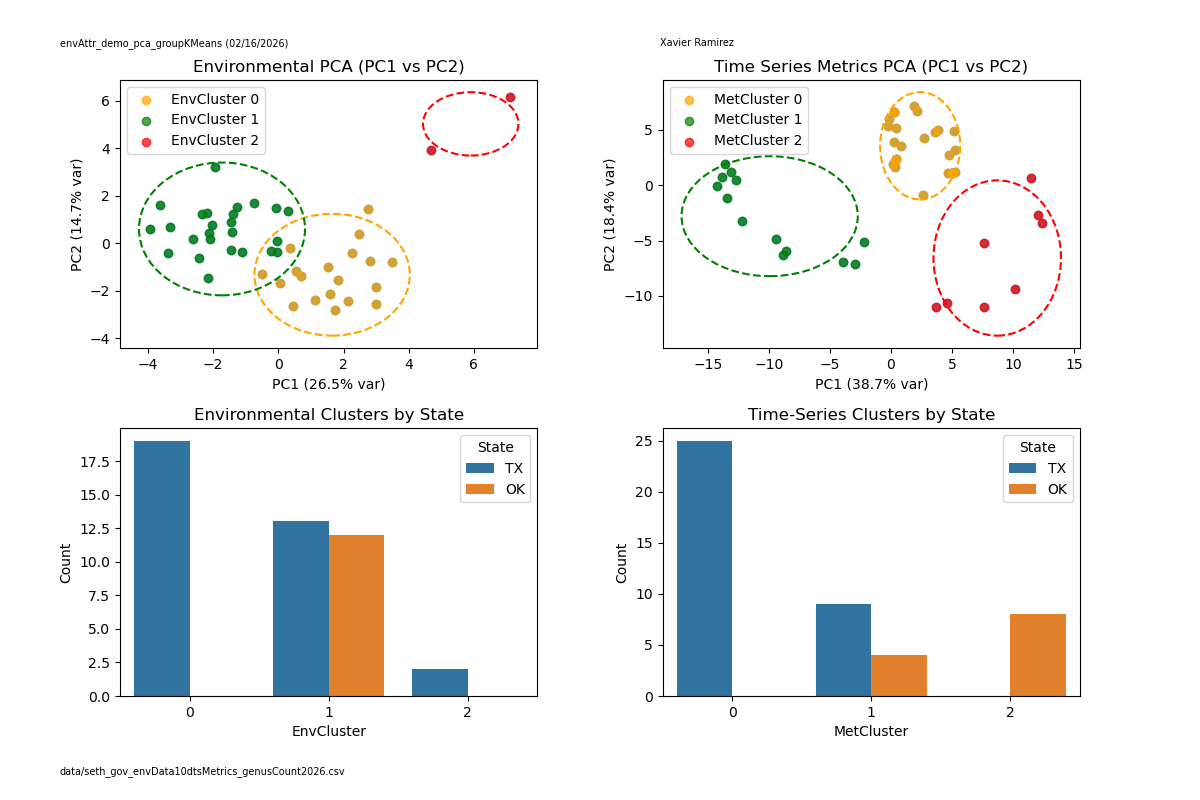
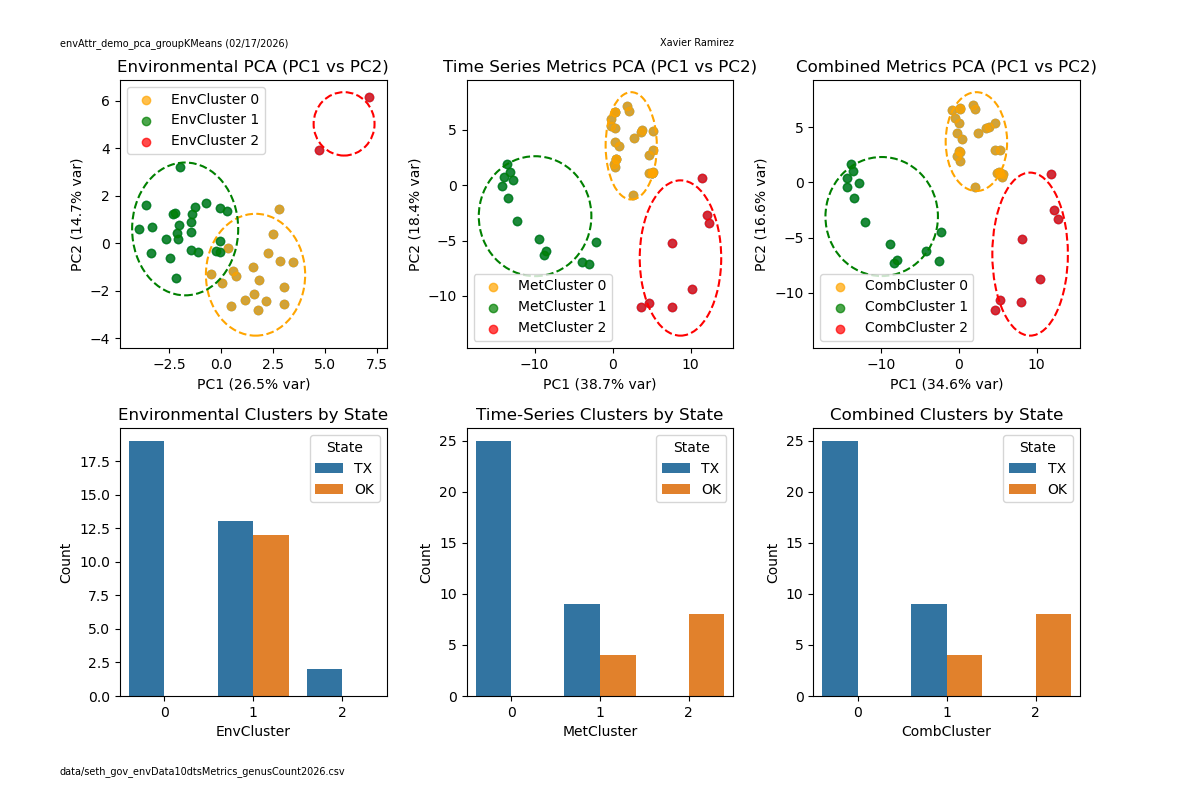
Added a combined metrics column of subplots to Kmeans group script, if I combine env atts and tim mets it really does not perform better, so time metrics themselves are probably better for OK/ TX.

diff --git a/python_code/envAttr_demo_pca_groupKMeans.py b/python_code/envAttr_demo_pca_groupKMeans.py
@@ -39,7 +39,7 @@ df = pd.read_csv(fileName_c)                # load dataset
 df.columns = df.columns.str.strip()         # clean column names
 
 # ============== 1. Select environmental columns ===========
-env_cols = df.columns[4:25]                 # columns 1–24 are environmental
+env_cols = df.columns[4:25]                 # columns 4–25 are environmental
 X_env = df[env_cols]
 
 # ============== 2. Standardize the data ===================
@@ -56,9 +56,9 @@ df["PC1"] = pc_scores[:, 0]                 # store PC1 scores
 df["PC2"] = pc_scores[:, 1]                 # store PC2 scores
 
 plt.figure(figsize=(12,8))                  # creates a nicely-sized figure
-# ============== 5. PC1 vs PC2 scatter plot (221)===========
+# ============== 5. PC1 vs PC2 scatter plot (231)===========
 pc_scores = pca_env.transform(X_env_scaled)
-plt.subplot(221)
+plt.subplot(231)
 plt.scatter(pc_scores[:, 0], pc_scores[:, 1], alpha=0.7)
 plt.xlabel(f"PC1 ({pca_env.explained_variance_ratio_[0]*100:.1f}% var)")
 plt.ylabel(f"PC2 ({pca_env.explained_variance_ratio_[1]*100:.1f}% var)")
@@ -81,7 +81,7 @@ print("\nState counts for EnvCluster:")
 print(df.groupby("EnvCluster")["State"].value_counts())
 
 # Plot with cluster colors
-plt.subplot(221)
+plt.subplot(231)
 for cluster_id in np.unique(df["EnvCluster"]):
     cluster_points = pc_scores[df["EnvCluster"] == cluster_id]
     color = cluster_colors[cluster_id]
@@ -113,9 +113,9 @@ pc_met_scores = pca_met.transform(X_met_scaled) # compute each site's pc scores
 df["PC1"] = pc_met_scores[:, 0]             # store PC1 scores
 df["PC2"] = pc_met_scores[:, 1]             # store PC2 scores
 
-# ============== 10. PC1 vs PC2 scatter plot (222)==========
+# ============== 10. PC1 vs PC2 scatter plot (232)==========
 pc_met_scores = pca_met.transform(X_met_scaled)
-plt.subplot(222)
+plt.subplot(232)
 plt.scatter(pc_met_scores[:, 0], pc_met_scores[:, 1], alpha=0.7)
 plt.xlabel(f"PC1 ({pca_met.explained_variance_ratio_[0]*100:.1f}% var)")
 plt.ylabel(f"PC2 ({pca_met.explained_variance_ratio_[1]*100:.1f}% var)")
@@ -138,7 +138,7 @@ print("\nState counts for MetCluster:")
 print(df.groupby("MetCluster")["State"].value_counts())
 
 # Plot with cluster colors
-plt.subplot(222)
+plt.subplot(232)
 for cluster_id in np.unique(df["MetCluster"]):
     cluster_points = pc_met_scores[df["MetCluster"] == cluster_id]
     color = cluster_colors[cluster_id]
@@ -152,7 +152,63 @@ for cluster_id in np.unique(df["MetCluster"]):
     plt.gca().add_patch(ellipse)
 plt.legend()
 
-# ============== 11. EnvCluster vs MetCluster comparison prints==========
+# --------------------------------COMBINED METRICS SECTION---------------------------------
+# ============== 11. Select metric columns ==================
+X_comb = df[list(env_cols) + list(timeMet)]             # 4-25, 59-202 are combined metrics 
+
+# ============== 12. Standardize the data ==================
+scaler = StandardScaler()                   # standardize environmental attributes
+X_comb_scaled = scaler.fit_transform(X_comb)  # ensures PCA is not dominated by large-scale variables
+
+# ============== 13. Standardize the environmental variables 
+pca_comb = PCA()                             # initialize PCA model
+pca_comb.fit(X_comb_scaled)                   # fit PCA to standardized data
+
+# ============== 14. Fit PCA (all components) ==============
+pc_comb_scores = pca_comb.transform(X_comb_scaled) # compute each site's pc scores
+df["PC1"] = pc_comb_scores[:, 0]             # store PC1 scores
+df["PC2"] = pc_comb_scores[:, 1]             # store PC2 scores
+
+# ============== 15. PC1 vs PC2 scatter plot (233)==========
+pc_comb_scores = pca_comb.transform(X_comb_scaled)
+plt.subplot(233)
+plt.scatter(pc_comb_scores[:, 0], pc_comb_scores[:, 1], alpha=0.7)
+plt.xlabel(f"PC1 ({pca_comb.explained_variance_ratio_[0]*100:.1f}% var)")
+plt.ylabel(f"PC2 ({pca_comb.explained_variance_ratio_[1]*100:.1f}% var)")
+plt.title("Combined Metrics PCA (PC1 vs PC2)")
+plt.tight_layout()
+
+# Cluster sites based on PC1 and PC2
+cluster_colors = {
+    0: 'orange',
+    1: 'green',
+    2: 'red',}
+kmeans = KMeans(n_clusters=3, random_state=42).fit(pc_comb_scores[:, :2])
+df["CombCluster"] = kmeans.labels_
+# print sites in each cluster and their states
+print("\nFull SiteN lists for CombCluster:")
+for cluster_id, sites in df.groupby("CombCluster")["SiteN"].unique().items():
+    print(f"CombCluster {cluster_id}: {list(sites)}")
+
+print("\nState counts for CombCluster:")
+print(df.groupby("CombCluster")["State"].value_counts())
+
+# Plot with cluster colors
+plt.subplot(233)
+for cluster_id in np.unique(df["CombCluster"]):
+    cluster_points = pc_comb_scores[df["CombCluster"] == cluster_id]
+    color = cluster_colors[cluster_id]
+    plt.scatter(cluster_points[:, 0], cluster_points[:, 1],
+                label=f"CombCluster {cluster_id}", alpha=0.7, color=color)
+    center = cluster_points.mean(axis=0)
+    width = cluster_points[:, 0].ptp() * 1.2
+    height = cluster_points[:, 1].ptp() * 1.2
+    ellipse = Ellipse(center, width, height,
+                      edgecolor=color, facecolor='none', linestyle='--', linewidth=1.5)
+    plt.gca().add_patch(ellipse)
+plt.legend()
+
+# ============== 16. 2 Cluster comparison prints==========
 # print percentages of states in each cluster using the csv file, for "accuracy"
 def cluster_state_percentages(df, cluster_col):
     counts = df.groupby([cluster_col, "State"]).size().unstack(fill_value=0)
@@ -166,6 +222,7 @@ print(cluster_state_percentages(df, "MetCluster"))
 # chi-square tests prints (look into how to interpret because idk yet)
 env_table = pd.crosstab(df["EnvCluster"], df["State"])
 met_table = pd.crosstab(df["MetCluster"], df["State"])
+comb_table = pd.crosstab(df["CombCluster"], df["State"])
 
 print("\nChi-square for Environmental Clusters vs State:")
 print(chi2_contingency(env_table))
@@ -173,16 +230,24 @@ print(chi2_contingency(env_table))
 print("\nChi-square for Time-Series Clusters vs State:")
 print(chi2_contingency(met_table))
 
-# ============== 12. EnvCluster vs MetCluster Box Plots (223) and (224)==========
-plt.subplot(223)                            # environmental clusters by state     
+print("\nChi-square for Combined Clusters vs State:")
+print(chi2_contingency(comb_table))
+
+# ============== 12. 3 Clusters Box Plots (234), (235) and (236)==========
+plt.subplot(234)                            # environmental clusters by state     
 env_counts = df.groupby(["EnvCluster", "State"]).size().reset_index(name="Count")
 sns.barplot(data=env_counts, x="EnvCluster", y="Count", hue="State")
 plt.title("Environmental Clusters by State")
 
-plt.subplot(224)                            # time-series clusters by state
+plt.subplot(235)                            # time-series clusters by state
 met_counts = df.groupby(["MetCluster", "State"]).size().reset_index(name="Count")
 sns.barplot(data=met_counts, x="MetCluster", y="Count", hue="State")
 plt.title("Time-Series Clusters by State")
+
+plt.subplot(236)                            # combined clusters by state
+Comb_counts = df.groupby(["CombCluster", "State"]).size().reset_index(name="Count")
+sns.barplot(data=Comb_counts, x="CombCluster", y="Count", hue="State")
+plt.title("Combined Clusters by State")
 
 # ============= Make the subplots look a little nicer ================= 
 plt.subplots_adjust(left=0.1, right=0.9, top=0.9, bottom=0.13, wspace=0.3, hspace=0.3)
